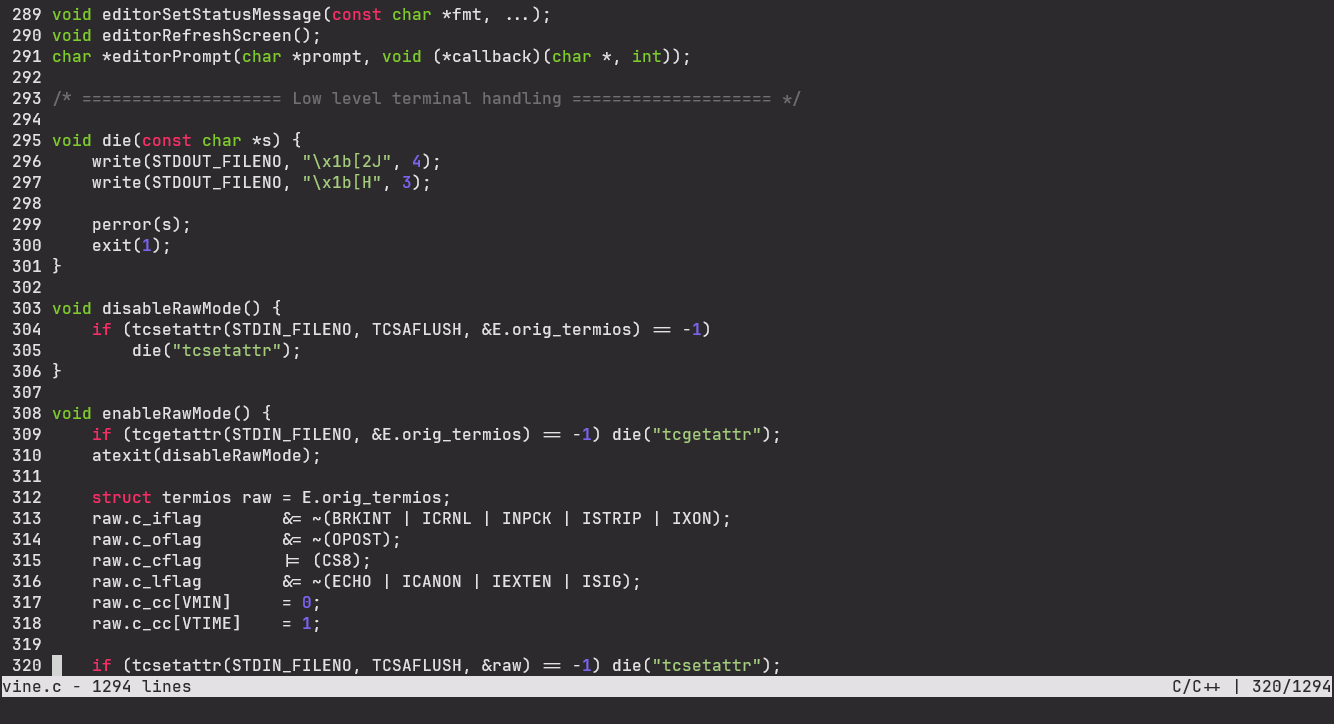
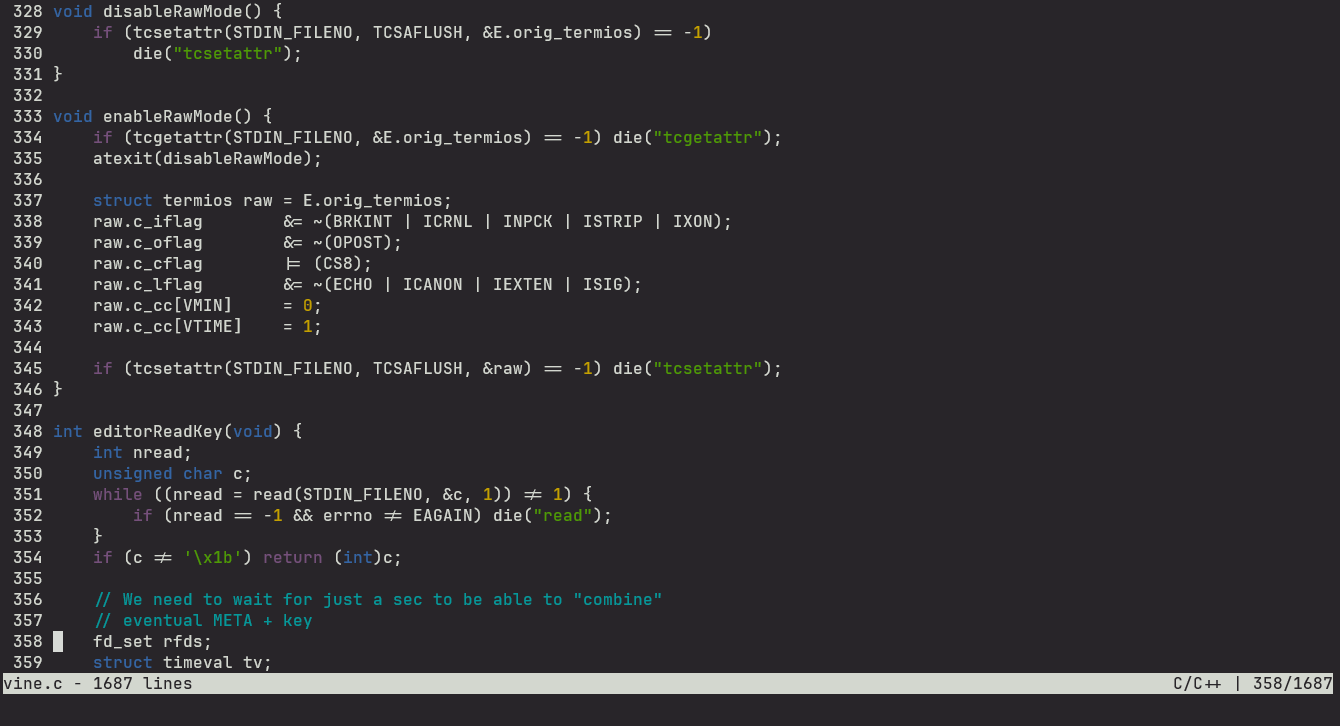
theming overhaul

diff --git a/vine.c b/vine.c
@@ -135,7 +135,7 @@ void initEditor(); // <--- Configures "E"
  * In order add a new theme, define a new (const) struct out of the struct
  * "editorTheme", then add all of the colour values into it in the form of a
  * FG-ANSI colour. Then, just simply change the values of the "T" struct to
- * your themes value
+ * your themes value.
  */
 
 #define RED 31
@@ -153,25 +153,34 @@ void initEditor(); // <--- Configures "E"
 #define WHITE 37
 #define GREY 90
 
-const struct editorTheme sonokai = {
-    GREY, RED, GREEN, BRIGHT_GREEN,
-    PURPLE, BLUE, WHITE,
-};
-
 const struct editorTheme kilo = {
     CYAN, YELLOW, GREEN, PURPLE,
     RED, BLUE, WHITE
 };
 
-// This is what the vim default looks like on my machine
-const struct editorTheme vimmy = {
-    BRIGHT_CYAN, BRIGHT_YELLOW, BRIGHT_GREEN, BRIGHT_PURPLE,
-    BRIGHT_PURPLE, BLUE, WHITE,
+const struct editorTheme slate = {
+    GREY, GREEN, BLUE, YELLOW,
+    YELLOW, CYAN, WHITE
 };
 
-const struct editorTheme aqua = {
-    GREY, PURPLE, BLUE, BRIGHT_PURPLE,
-    BRIGHT_PURPLE, BLUE, WHITE
+const struct editorTheme evening = {
+    BRIGHT_BLUE, BRIGHT_GREEN, BRIGHT_YELLOW, BRIGHT_RED,
+    BRIGHT_RED, BLUE, WHITE
+};
+
+const struct editorTheme elflord = {
+    BRIGHT_BLUE, WHITE, BRIGHT_GREEN, BRIGHT_PURPLE,
+    PURPLE, BLUE, CYAN
+};
+
+const struct editorTheme default_ = {
+    CYAN, PURPLE, BLUE, GREEN,
+    YELLOW, RED, WHITE
+};
+
+const struct editorTheme quiet = {
+    GREY, WHITE, WHITE, WHITE,
+    WHITE, WHITE, WHITE
 };
 
 struct editorTheme T;
@@ -998,12 +1007,12 @@ void editorDrawRows(struct abuf *ab) {
             int clen = snprintf(buf, sizeof(buf), "\x1b[%dm", current_color);
             abAppend(ab, buf, clen);
           }
-        } else if (hl[j] == HL_NORMAL) {
+        /*} else if (hl[j] == HL_NORMAL) {
           if (current_color != -1) {
-            abAppend(ab, "\x1b[39m", 5);
+            abAppend(ab, "\x1b[37m", 5);
             current_color = -1;
           }
-          abAppend(ab, &c[j], 1);
+          abAppend(ab, &c[j], 1);*/
         } else {
           int color = editorSyntaxToColour(hl[j]);
           if (color != current_color) {
@@ -1572,14 +1581,18 @@ int evalLine(char *line) {
         }
         tab_expand = str_to_bool(value);
     } else if (strcmp(key, "colorscheme") == 0) {
-        if (!strcmp(value, "\"sonokai\""))
-            setTheme(sonokai);
-        else if (!strcmp(value, "\"vimmy\""))
-            setTheme(vimmy);
+        if (!strcmp(value, "\"default\""))
+            setTheme(default_);
         else if (!strcmp(value, "\"kilo\""))
             setTheme(kilo);
-        else if (!strcmp(value, "\"aqua\""))
-            setTheme(aqua);
+        else if (!strcmp(value, "\"slate\""))
+            setTheme(slate);
+        else if (!strcmp(value, "\"evening\""))
+            setTheme(evening);
+        else if (!strcmp(value, "\"elflord\""))
+            setTheme(elflord);
+        else if (!strcmp(value, "\"quiet\""))
+            setTheme(quiet);
         else
             handleConfigError(key);
     } else if (strcmp(key, "autopair") == 0) {
@@ -1622,7 +1635,7 @@ int loadConfig() {
 
 // something like initEditor for config defaults...
 void initDefaults() {
-    setTheme(sonokai); // default theme
+    setTheme(default_); // default theme
 
     E.tab_stop       = 4;
     E.quit_times     = 3;

diff --git a/README.md b/README.md
@@ -10,7 +10,7 @@ example it does change the keyboard shortcuts a lot.
 **DISCLAIMER**: This is not a UTF-8 text editor, and I have no idea how to implement it. Sue me.
 
 [![VINE EDITOR](https://github.com/callmesalmon/vine/raw/main/vineimg.png)](https://github.com/callmesalmon/vine)  
-VINE editing its source code with the "sonokai" colorscheme
+VINE editing its source code with the default colorscheme
 
 Requirements
 ------------
